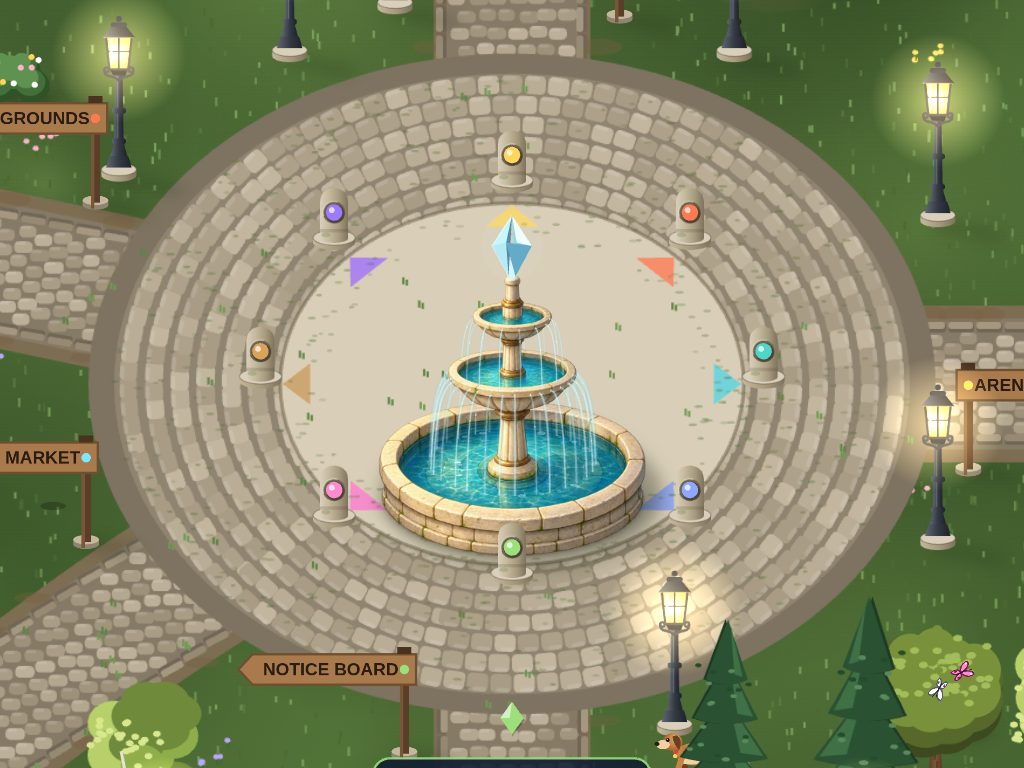
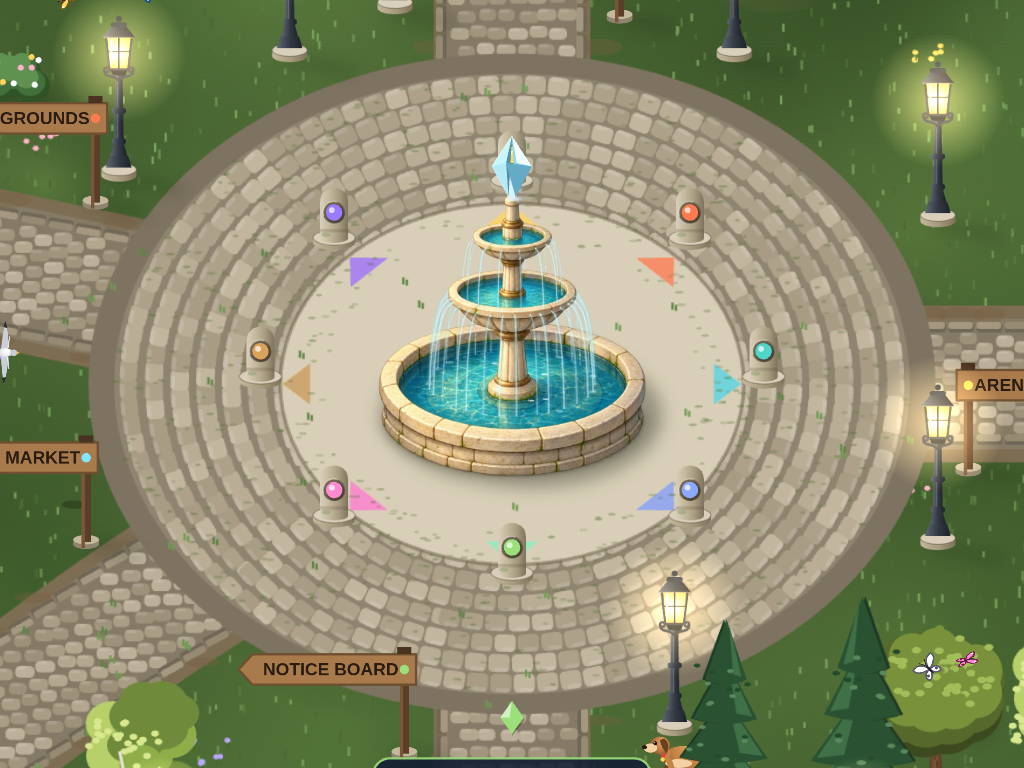
Center the fountain basin within the elemental marker ring

diff --git a/apps/client/tests/town-fountain.test.ts b/apps/client/tests/town-fountain.test.ts
@@ -1,16 +1,19 @@
 import { describe, expect, it } from "vitest";
 import { TOWN, TOWN_OBSTACLES } from "../../../packages/shared/src/town";
-import { FOUNTAIN } from "../src/town-art";
 
 describe("central plaza fountain", () => {
   const f = TOWN_OBSTACLES.find((o) => o.kind === "fountain")!;
-  it("centres the entire monument's silhouette on the paving", () => {
-    const top = f.y + FOUNTAIN.crystal.dy - FOUNTAIN.crystal.ry;
-    const bottom = f.y + FOUNTAIN.basin.ry + FOUNTAIN.basin.wall;
+  it("centres the basin inside the eight elemental markers", () => {
+    const stones = TOWN_OBSTACLES.filter((o) => o.kind === "stone");
+    expect(stones).toHaveLength(8);
     expect(f.x).toBe(TOWN.plaza.x);
-    expect(Math.abs((top + bottom) / 2 - TOWN.plaza.y)).toBeLessThan(2);
+    expect(f.y).toBe(TOWN.plaza.y);
+    for (let i = 0; i < 4; i++) {
+      expect((stones[i].x + stones[i + 4].x) / 2).toBeCloseTo(f.x);
+      expect((stones[i].y + stones[i + 4].y) / 2).toBeCloseTo(f.y);
+    }
   });
-  it("keeps all eight element stones clear of the moved basin", () => {
+  it("keeps all eight element stones clear of the basin", () => {
     if (f.shape !== "round")
       throw new Error("Fountain requires an elliptical footprint");
     const stones = TOWN_OBSTACLES.filter((o) => o.kind === "stone");

diff --git a/packages/shared/src/town.ts b/packages/shared/src/town.ts
@@ -32,8 +32,6 @@ export const TOWN = {
   spawn: { x: 1600, y: 1330 },
   plaza: {
     x: 1600, y: 1080, r: 340,
-    // Centre the full raised monument in the paving, not only its basin.
-    fountainOffsetY: 68,
     stonesRadius: 215,
   },
 } as const;
@@ -368,7 +366,7 @@ export const TOWN_PLAZA_LAMPS = [26, 70, 214, 242, 298, 334].map(onRing);
 function buildObstacles(): TownObstacle[] {
   const { x, y } = TOWN.plaza;
   const list: TownObstacle[] = [
-    { shape: "round", x, y: y + TOWN.plaza.fountainOffsetY, rx: 100, ry: 76, kind: "fountain" },
+    { shape: "round", x, y, rx: 100, ry: 76, kind: "fountain" },
   ];
   for (let i = 0; i < 8; i++) {
     const a = (i / 8) * Math.PI * 2 - Math.PI / 2;

diff --git a/docs/town-fountain.md b/docs/town-fountain.md
@@ -1,9 +1,9 @@
 # Central plaza fountain
 
-The full monument's silhouette is centred on the plaza, rather than placing only
-its basin at the centre. The authoritative fountain collision moves with the
-visible basin. Eight element stones stand on a wider concentric ring and stay
-clear of it; the compass inlay follows the same radius.
+The basin sits at the centre of the circle formed by the eight elemental
+markers, sharing the plaza and compass inlay's centre. The fountain collision
+uses that same position. The markers stand on a wider concentric ring and stay
+clear of the basin.
 
 The new illustration adds carved limestone, weathering at wet joints, bronze
 collars, depth in the bowls and refracted light in the water. Transparent animated
@@ -14,7 +14,7 @@ cannot load. Reduced motion leaves a still fountain.
 
 The compact WebP is included in the offline precache. Source artwork and its
 placement notes are in `apps/client/art-source/town/`. Client tests check the
-visual centre and clearance between the basin collision and all eight stones;
+basin against opposite pairs of markers and its clearance from all eight stones;
 the town movement tests continue to check collision against the fountain.
 
 [Actual animated scene, still frame](town-fountain.png).
